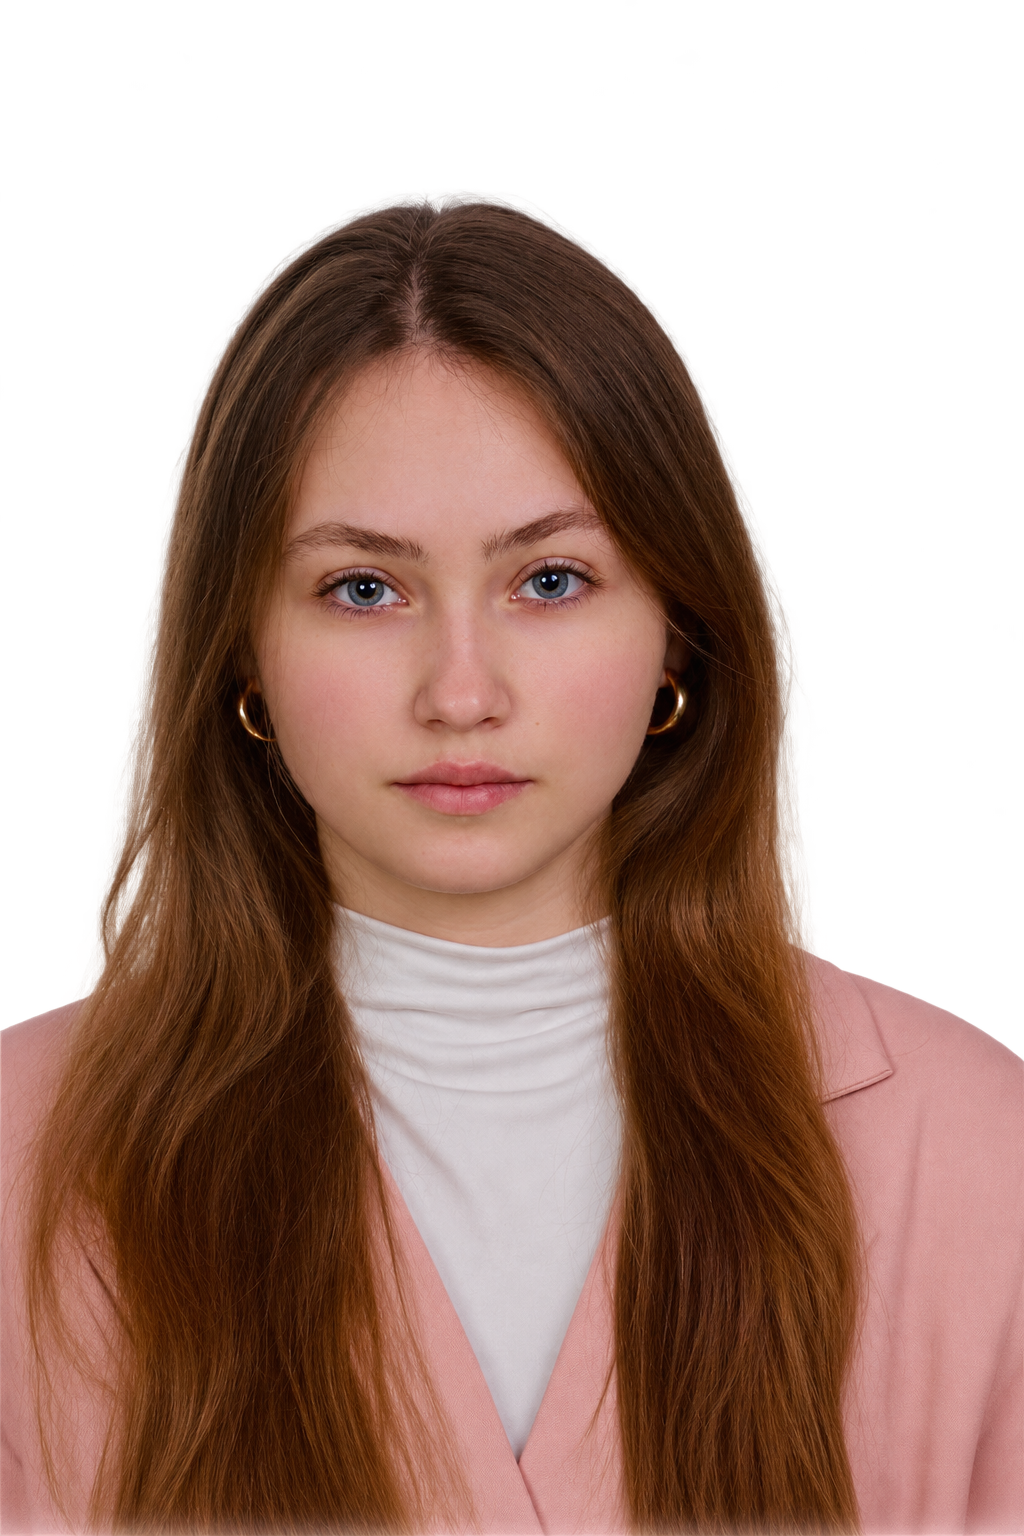
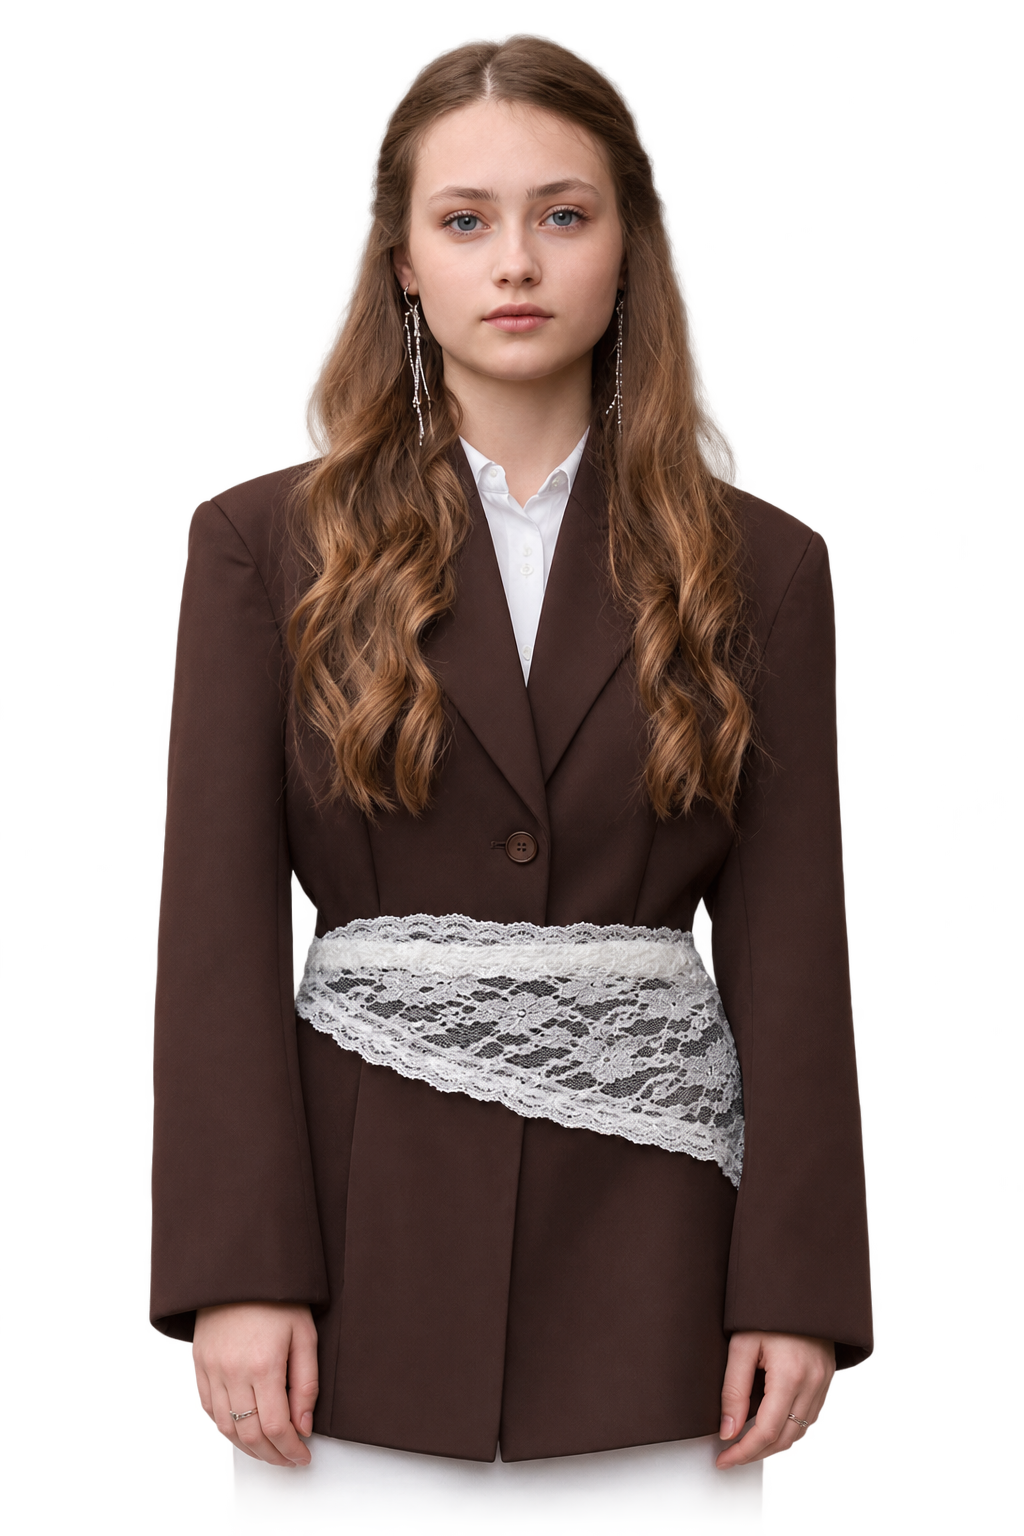
Replace Anastasia Domanova portrait and remove the event badge

diff --git a/docs/community-page-publication-20261114.md b/docs/community-page-publication-20261114.md
@@ -269,6 +269,11 @@ PNG 1024×1536 с прозрачным фоном и сглаженными кр
 `AMBASSADOR_PHOTOS_PUBLISHED`; журнал —
 `/root/legalcareerist-bot-backups/ambassador-photos-20261125-last.log`.
 
+Позднее 25 ноября по новой фотографии владельца портрет Домановой заменён
+на снимок с юридического форума: бейдж, лента на шее и крепление удалены,
+восстановлены закрытые ими участки одежды. Подготовлен прозрачный PNG
+в прежнем формате карточки. Подпись должности — «Юрист».
+
 Интеграционная проверка публикации прошла, включая откат при несовпадении
 публичных байтов портрета Алены. Публикация теперь подтверждает четыре
 портрета. Браузерные запросы API подменялись; реальные заявки, сообщения
